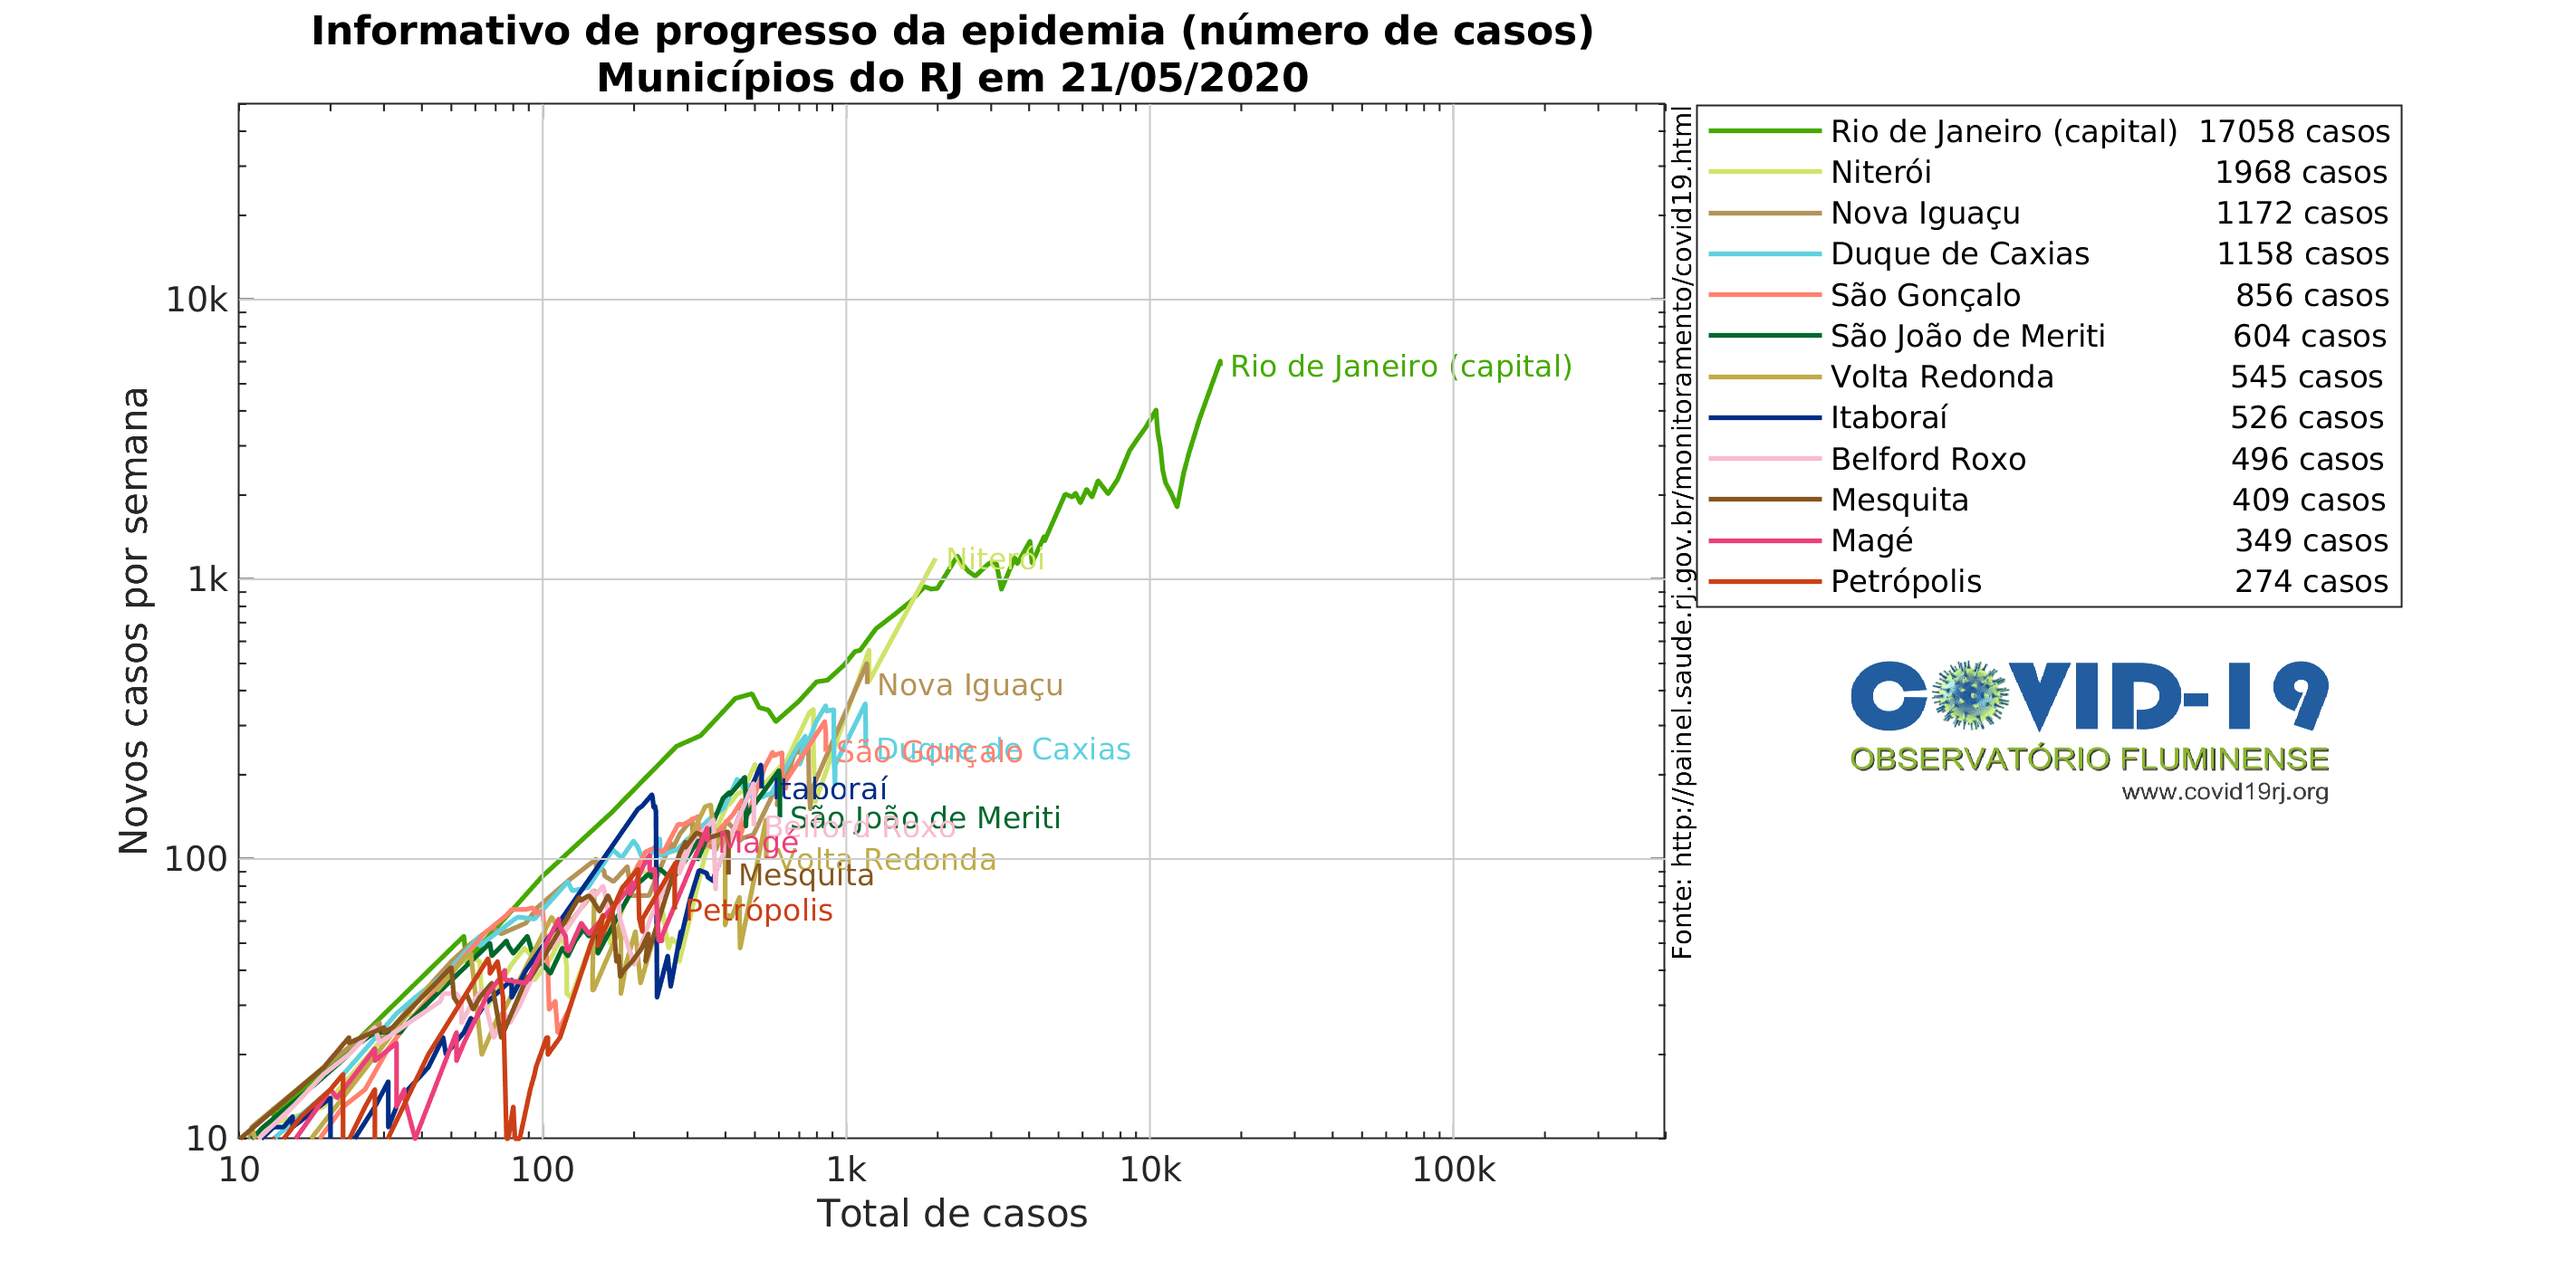
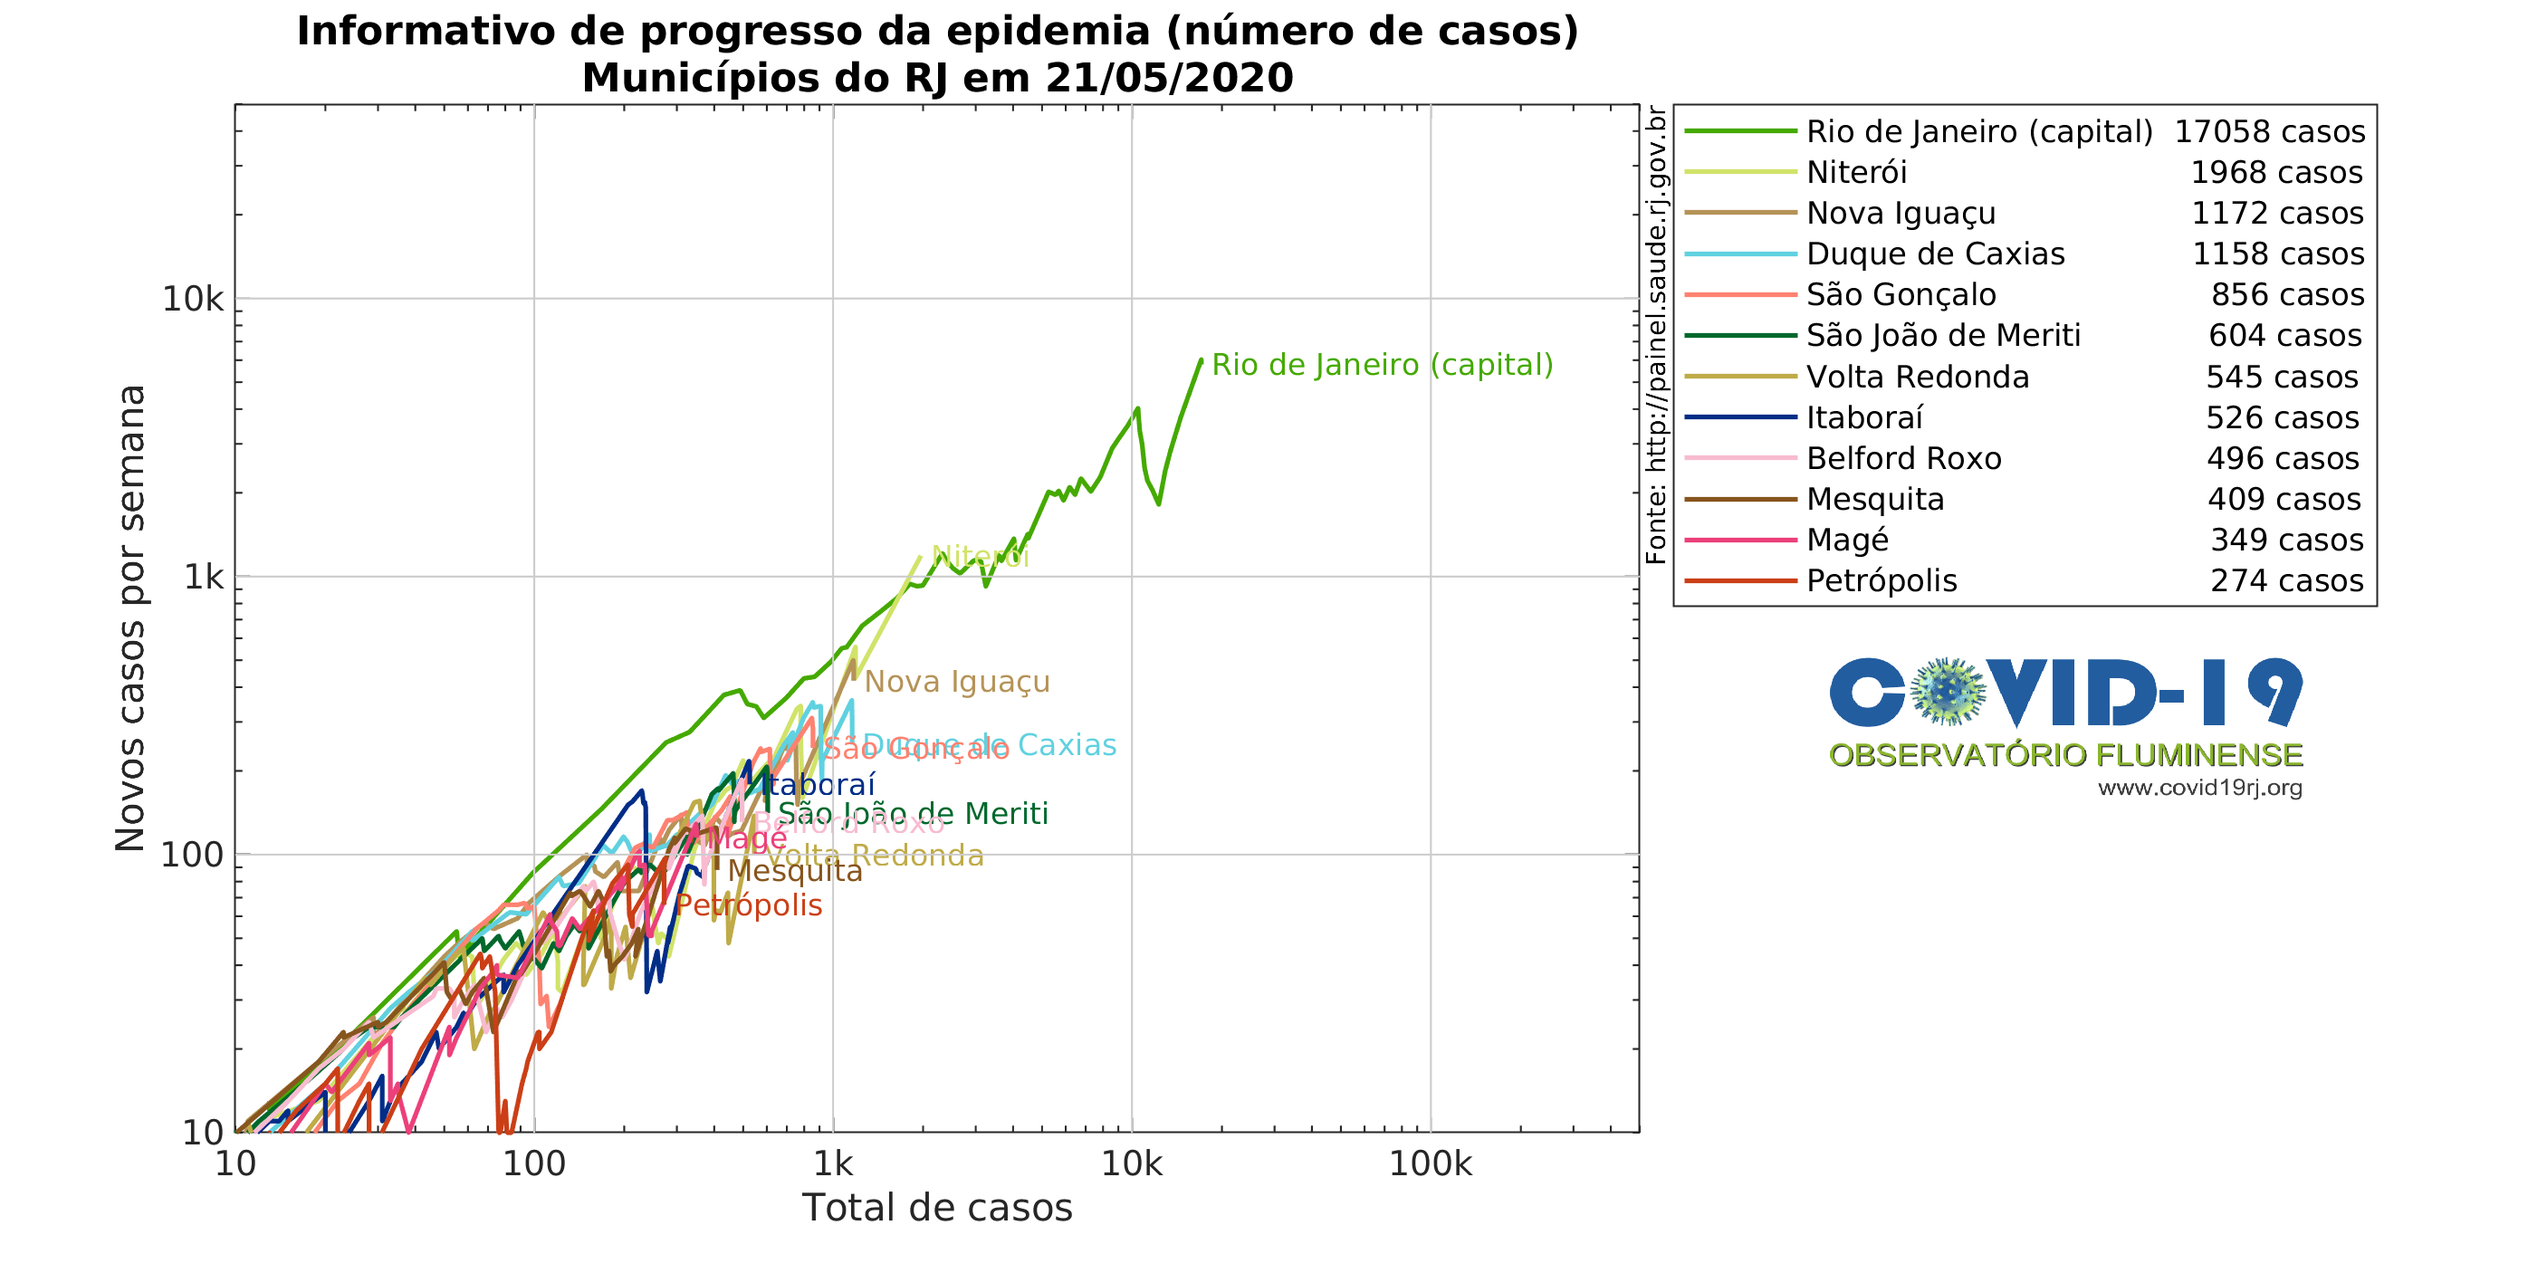
Update

diff --git a/Monitoramento/covid_RJ_pm.m b/Monitoramento/covid_RJ_pm.m
@@ -406,7 +406,7 @@ set(h4,'Rotation',ang,'color',[0.4,0.4,0.4],'horizontalAlignment', 'right','Font
 
 set(gca,'YTickLabel',{'1','10','100'})
 
-hfonte=text(day_axis,max_y,'Fonte: http://painel.saude.rj.gov.br/monitoramento/covid19.html');
+hfonte=text(day_axis,max_y,'Fonte: http://painel.saude.rj.gov.br');
 set(hfonte,'Rotation',90,'color',[0,0,0],'horizontalAlignment', 'right','verticalAlignment', 'top','FontSize',7);
 
 axis([0 day_axis y_init max_y]);
@@ -462,7 +462,7 @@ set(h4,'Rotation',ang,'color',[0.4,0.4,0.4],'horizontalAlignment', 'right','Font
 
 set(gca,'YTickLabel',{'10','100','1k'})
 
-hfonte=text(day_axis,max_y,'Fonte: http://painel.saude.rj.gov.br/monitoramento/covid19.html');
+hfonte=text(day_axis,max_y,'Fonte: http://painel.saude.rj.gov.br');
 set(hfonte,'Rotation',90,'color',[0,0,0],'horizontalAlignment', 'right','verticalAlignment', 'top','FontSize',7);
 
 axis([0 day_axis y_init max_y]);
@@ -506,7 +506,7 @@ axis([1 max_x 1 max_y]);
 set(gca,'YTickLabel',{'1','10','100'})
 set(gca,'XTickLabel',{'1','10','100','1k'})
 
-hfonte=text(max_x,max_y,'Fonte: http://painel.saude.rj.gov.br/monitoramento/covid19.html');
+hfonte=text(max_x,max_y,'Fonte: http://painel.saude.rj.gov.br');
 set(hfonte,'Rotation',90,'color',[0,0,0],'horizontalAlignment', 'right','verticalAlignment', 'top','FontSize',7);
 
 
@@ -546,7 +546,7 @@ axis([10 max_x 10 max_y]);
 set(gca,'YTickLabel',{'10','100','1k'})
 set(gca,'XTickLabel',{'10','100','1k','10k'})
 
-hfonte=text(max_x,max_y,'Fonte: http://painel.saude.rj.gov.br/monitoramento/covid19.html');
+hfonte=text(max_x,max_y,'Fonte: http://painel.saude.rj.gov.br');
 set(hfonte,'Rotation',90,'color',[0,0,0],'horizontalAlignment', 'right','verticalAlignment', 'top','FontSize',7);
 
 % pra botar o logo no inferior direito
@@ -597,7 +597,7 @@ set(h4,'Rotation',ang,'color',[0.4,0.4,0.4],'horizontalAlignment', 'right','Font
 
 set(gca,'YTickLabel',{'0.1','1','10','100'})
 
-hfonte=text(day_axis,max_y,'Fonte: http://painel.saude.rj.gov.br/monitoramento/covid19.html');
+hfonte=text(day_axis,max_y,'Fonte: http://painel.saude.rj.gov.br');
 set(hfonte,'Rotation',90,'color',[0,0,0],'horizontalAlignment', 'right','verticalAlignment', 'top','FontSize',7);
 
 axis([0 day_axis y_init max_y]);
@@ -650,7 +650,7 @@ set(h4,'Rotation',ang,'color',[0.4,0.4,0.4],'horizontalAlignment', 'right','Font
 
 set(gca,'YTickLabel',{'1','10','100','1k'})
 
-hfonte=text(day_axis,max_y,'Fonte: http://painel.saude.rj.gov.br/monitoramento/covid19.html');
+hfonte=text(day_axis,max_y,'Fonte: http://painel.saude.rj.gov.br');
 set(hfonte,'Rotation',90,'color',[0,0,0],'horizontalAlignment', 'right','verticalAlignment', 'top','FontSize',7);
 
 axis([0 day_axis y_init max_y]);

diff --git a/Monitoramento/covid_RJ_abs.m b/Monitoramento/covid_RJ_abs.m
@@ -406,7 +406,7 @@ set(h4,'Rotation',ang,'color',[0.4,0.4,0.4],'horizontalAlignment', 'right','Font
 
 set(gca,'YTickLabel',{'10','100','1k','10k'})
 
-hfonte=text(max_x,max_y,'Fonte: http://painel.saude.rj.gov.br/monitoramento/covid19.html');
+hfonte=text(max_x,max_y,'Fonte: http://painel.saude.rj.gov.br');
 set(hfonte,'Rotation',90,'color',[0,0,0],'horizontalAlignment', 'right','verticalAlignment', 'top','FontSize',7);
 
 axis([0 max_x y_init max_y]);
@@ -464,7 +464,7 @@ set(h4,'Rotation',ang,'color',[0.4,0.4,0.4],'horizontalAlignment', 'right','Font
 
 set(gca,'YTickLabel',{'100','1k','10k','100k'})
 
-hfonte=text(max_x,max_y,'Fonte: http://painel.saude.rj.gov.br/monitoramento/covid19.html');
+hfonte=text(max_x,max_y,'Fonte: http://painel.saude.rj.gov.br');
 set(hfonte,'Rotation',90,'color',[0,0,0],'horizontalAlignment', 'right','verticalAlignment', 'top','FontSize',7);
 
 axis([0 max_x y_init max_y]);
@@ -508,7 +508,7 @@ axis([1 max_x 1 max_y]);
 set(gca,'YTickLabel',{'1','10','100','1k'})
 set(gca,'XTickLabel',{'1','10','100','1k','10k'})
 
-hfonte=text(max_x,max_y,'Fonte: http://painel.saude.rj.gov.br/monitoramento/covid19.html');
+hfonte=text(max_x,max_y,'Fonte: http://painel.saude.rj.gov.br');
 set(hfonte,'Rotation',90,'color',[0,0,0],'horizontalAlignment', 'right','verticalAlignment', 'top','FontSize',7);
 
 
@@ -548,7 +548,7 @@ axis([10 500000 10 50000]);
 set(gca,'YTickLabel',{'10','100','1k','10k'})
 set(gca,'XTickLabel',{'10','100','1k','10k','100k'})
 
-hfonte=text(max_x,max_y,'Fonte: http://painel.saude.rj.gov.br/monitoramento/covid19.html');
+hfonte=text(max_x,max_y,'Fonte: http://painel.saude.rj.gov.br');
 set(hfonte,'Rotation',90,'color',[0,0,0],'horizontalAlignment', 'right','verticalAlignment', 'top','FontSize',7);
 
 
@@ -601,7 +601,7 @@ set(h4,'Rotation',ang,'color',[0.4,0.4,0.4],'horizontalAlignment', 'right','Font
 
 set(gca,'YTickLabel',{'1','10','100','1k','10k','100k'})
 
-hfonte=text(max_x,max_y,'Fonte: http://painel.saude.rj.gov.br/monitoramento/covid19.html');
+hfonte=text(max_x,max_y,'Fonte: http://painel.saude.rj.gov.br');
 set(hfonte,'Rotation',90,'color',[0,0,0],'horizontalAlignment', 'right','verticalAlignment', 'top','FontSize',7);
 
 axis([0 max_x y_init max_y]);
@@ -655,7 +655,7 @@ set(h4,'Rotation',ang,'color',[0.4,0.4,0.4],'horizontalAlignment', 'right','Font
 
 set(gca,'YTickLabel',{'10','100','1k','10k','100k'})
 
-hfonte=text(max_x,max_y,'Fonte: http://painel.saude.rj.gov.br/monitoramento/covid19.html');
+hfonte=text(max_x,max_y,'Fonte: http://painel.saude.rj.gov.br');
 set(hfonte,'Rotation',90,'color',[0,0,0],'horizontalAlignment', 'right','verticalAlignment', 'top','FontSize',7);
 
 axis([0 max_x y_init max_y]);
